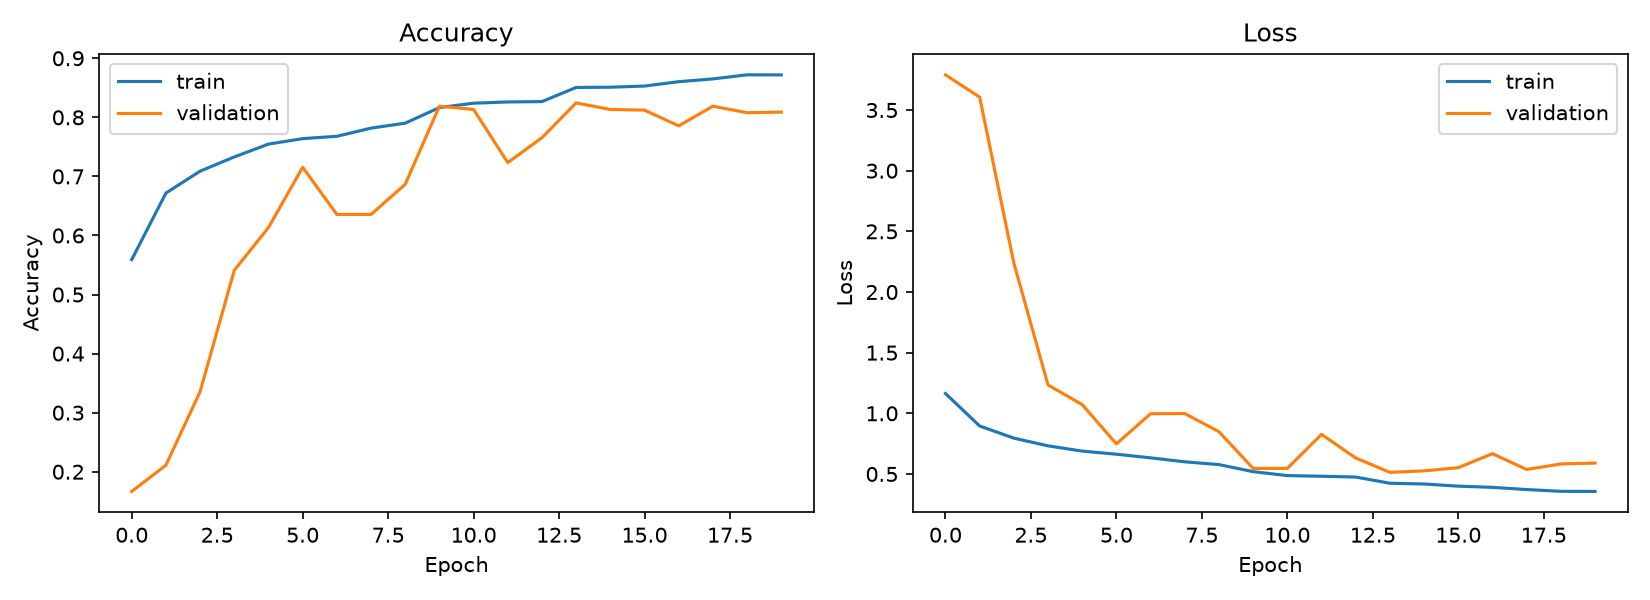
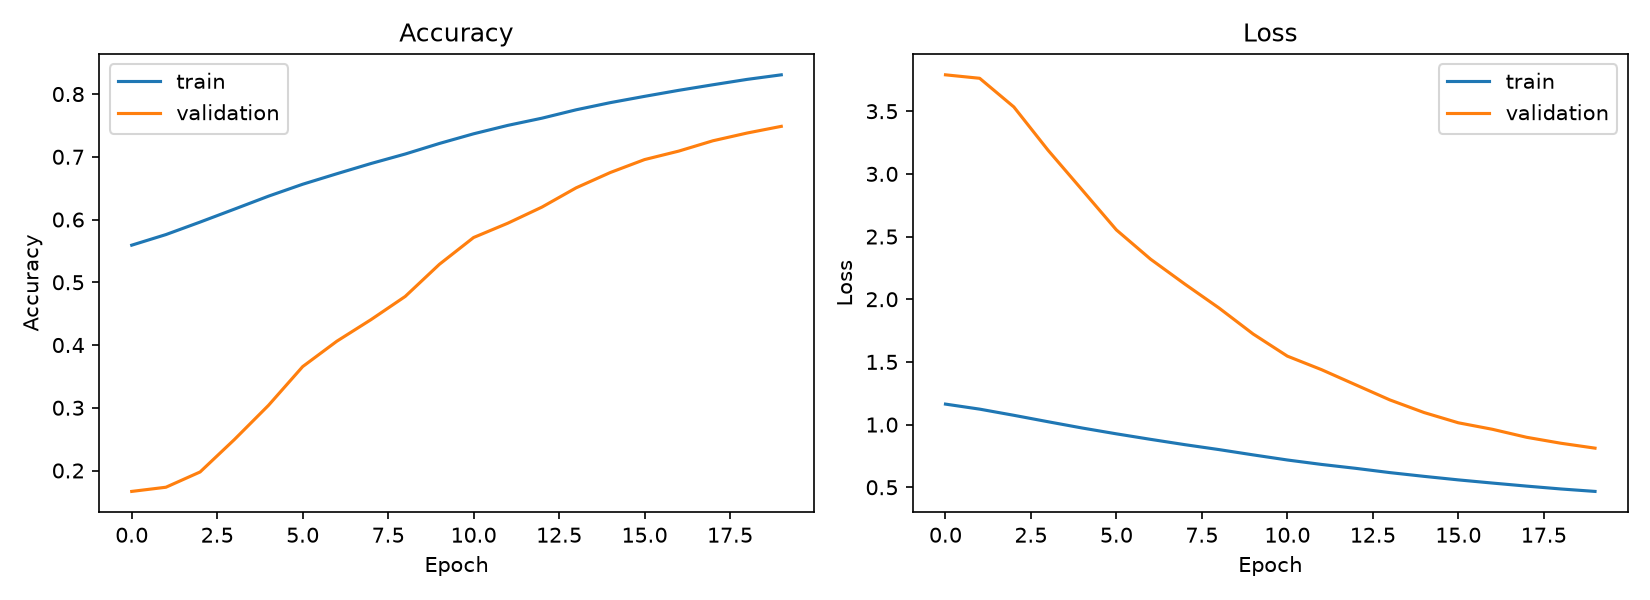
LAB7_CNN_unready

diff --git a/LAB07/classification/evaluate.py b/LAB07/classification/evaluate.py
@@ -65,19 +65,27 @@ def plot_confusion_matrix(matrix, classes, save_path):
     plt.close(fig)
 
 
-def plot_history(history, save_path):
+def smooth(values, weight=0.85):
+    smoothed = []
+    last = values[0]
+    for v in values:
+        last = last * weight + (1 - weight) * v
+        smoothed.append(last)
+    return smoothed
 
+
+def plot_history(history, save_path):
     fig, axes = plt.subplots(1, 2, figsize=(11, 4))
 
-    axes[0].plot(history.history["accuracy"], label="train")
-    axes[0].plot(history.history["val_accuracy"], label="validation")
+    axes[0].plot(smooth(history.history["accuracy"]), label="train")
+    axes[0].plot(smooth(history.history["val_accuracy"]), label="validation")
     axes[0].set_xlabel("Epoch")
     axes[0].set_ylabel("Accuracy")
     axes[0].set_title("Accuracy")
     axes[0].legend()
 
-    axes[1].plot(history.history["loss"], label="train")
-    axes[1].plot(history.history["val_loss"], label="validation")
+    axes[1].plot(smooth(history.history["loss"]), label="train")
+    axes[1].plot(smooth(history.history["val_loss"]), label="validation")
     axes[1].set_xlabel("Epoch")
     axes[1].set_ylabel("Loss")
     axes[1].set_title("Loss")

diff --git a/LAB07/classification/cnn_model.py b/LAB07/classification/cnn_model.py
@@ -64,7 +64,7 @@ def train_model(X_train, y_train, X_val, y_val, num_classes,
             monitor="val_loss", patience=8, restore_best_weights=True
         ),
         keras.callbacks.ReduceLROnPlateau(
-            monitor="val_loss", factor=0.5, patience=3, min_lr=1e-5
+            monitor="val_loss", factor=0.5, patience=5, min_lr=1e-5
         ),
     ]
 

diff --git a/LAB07/classification/replot.py b/LAB07/classification/replot.py
@@ -1,0 +1,11 @@
+import json
+from evaluate import plot_history
+
+class FakeHistory:
+    def __init__(self, history_dict):
+        self.history = history_dict
+
+with open("outputs/history.json") as f:
+    history_dict = json.load(f)
+
+plot_history(FakeHistory(history_dict), "outputs/training_history.png")

diff --git a/LAB07/classification/main.py b/LAB07/classification/main.py
@@ -17,7 +17,7 @@ OUTPUT_DIR = os.path.join(BASE_DIR, "outputs")
 
 IMG_SIZE = 64
 VAL_SIZE = 0.1
-MAX_PER_CLASS = 1500
+MAX_PER_CLASS = None
 EPOCHS = 20
 BATCH_SIZE = 64
 
